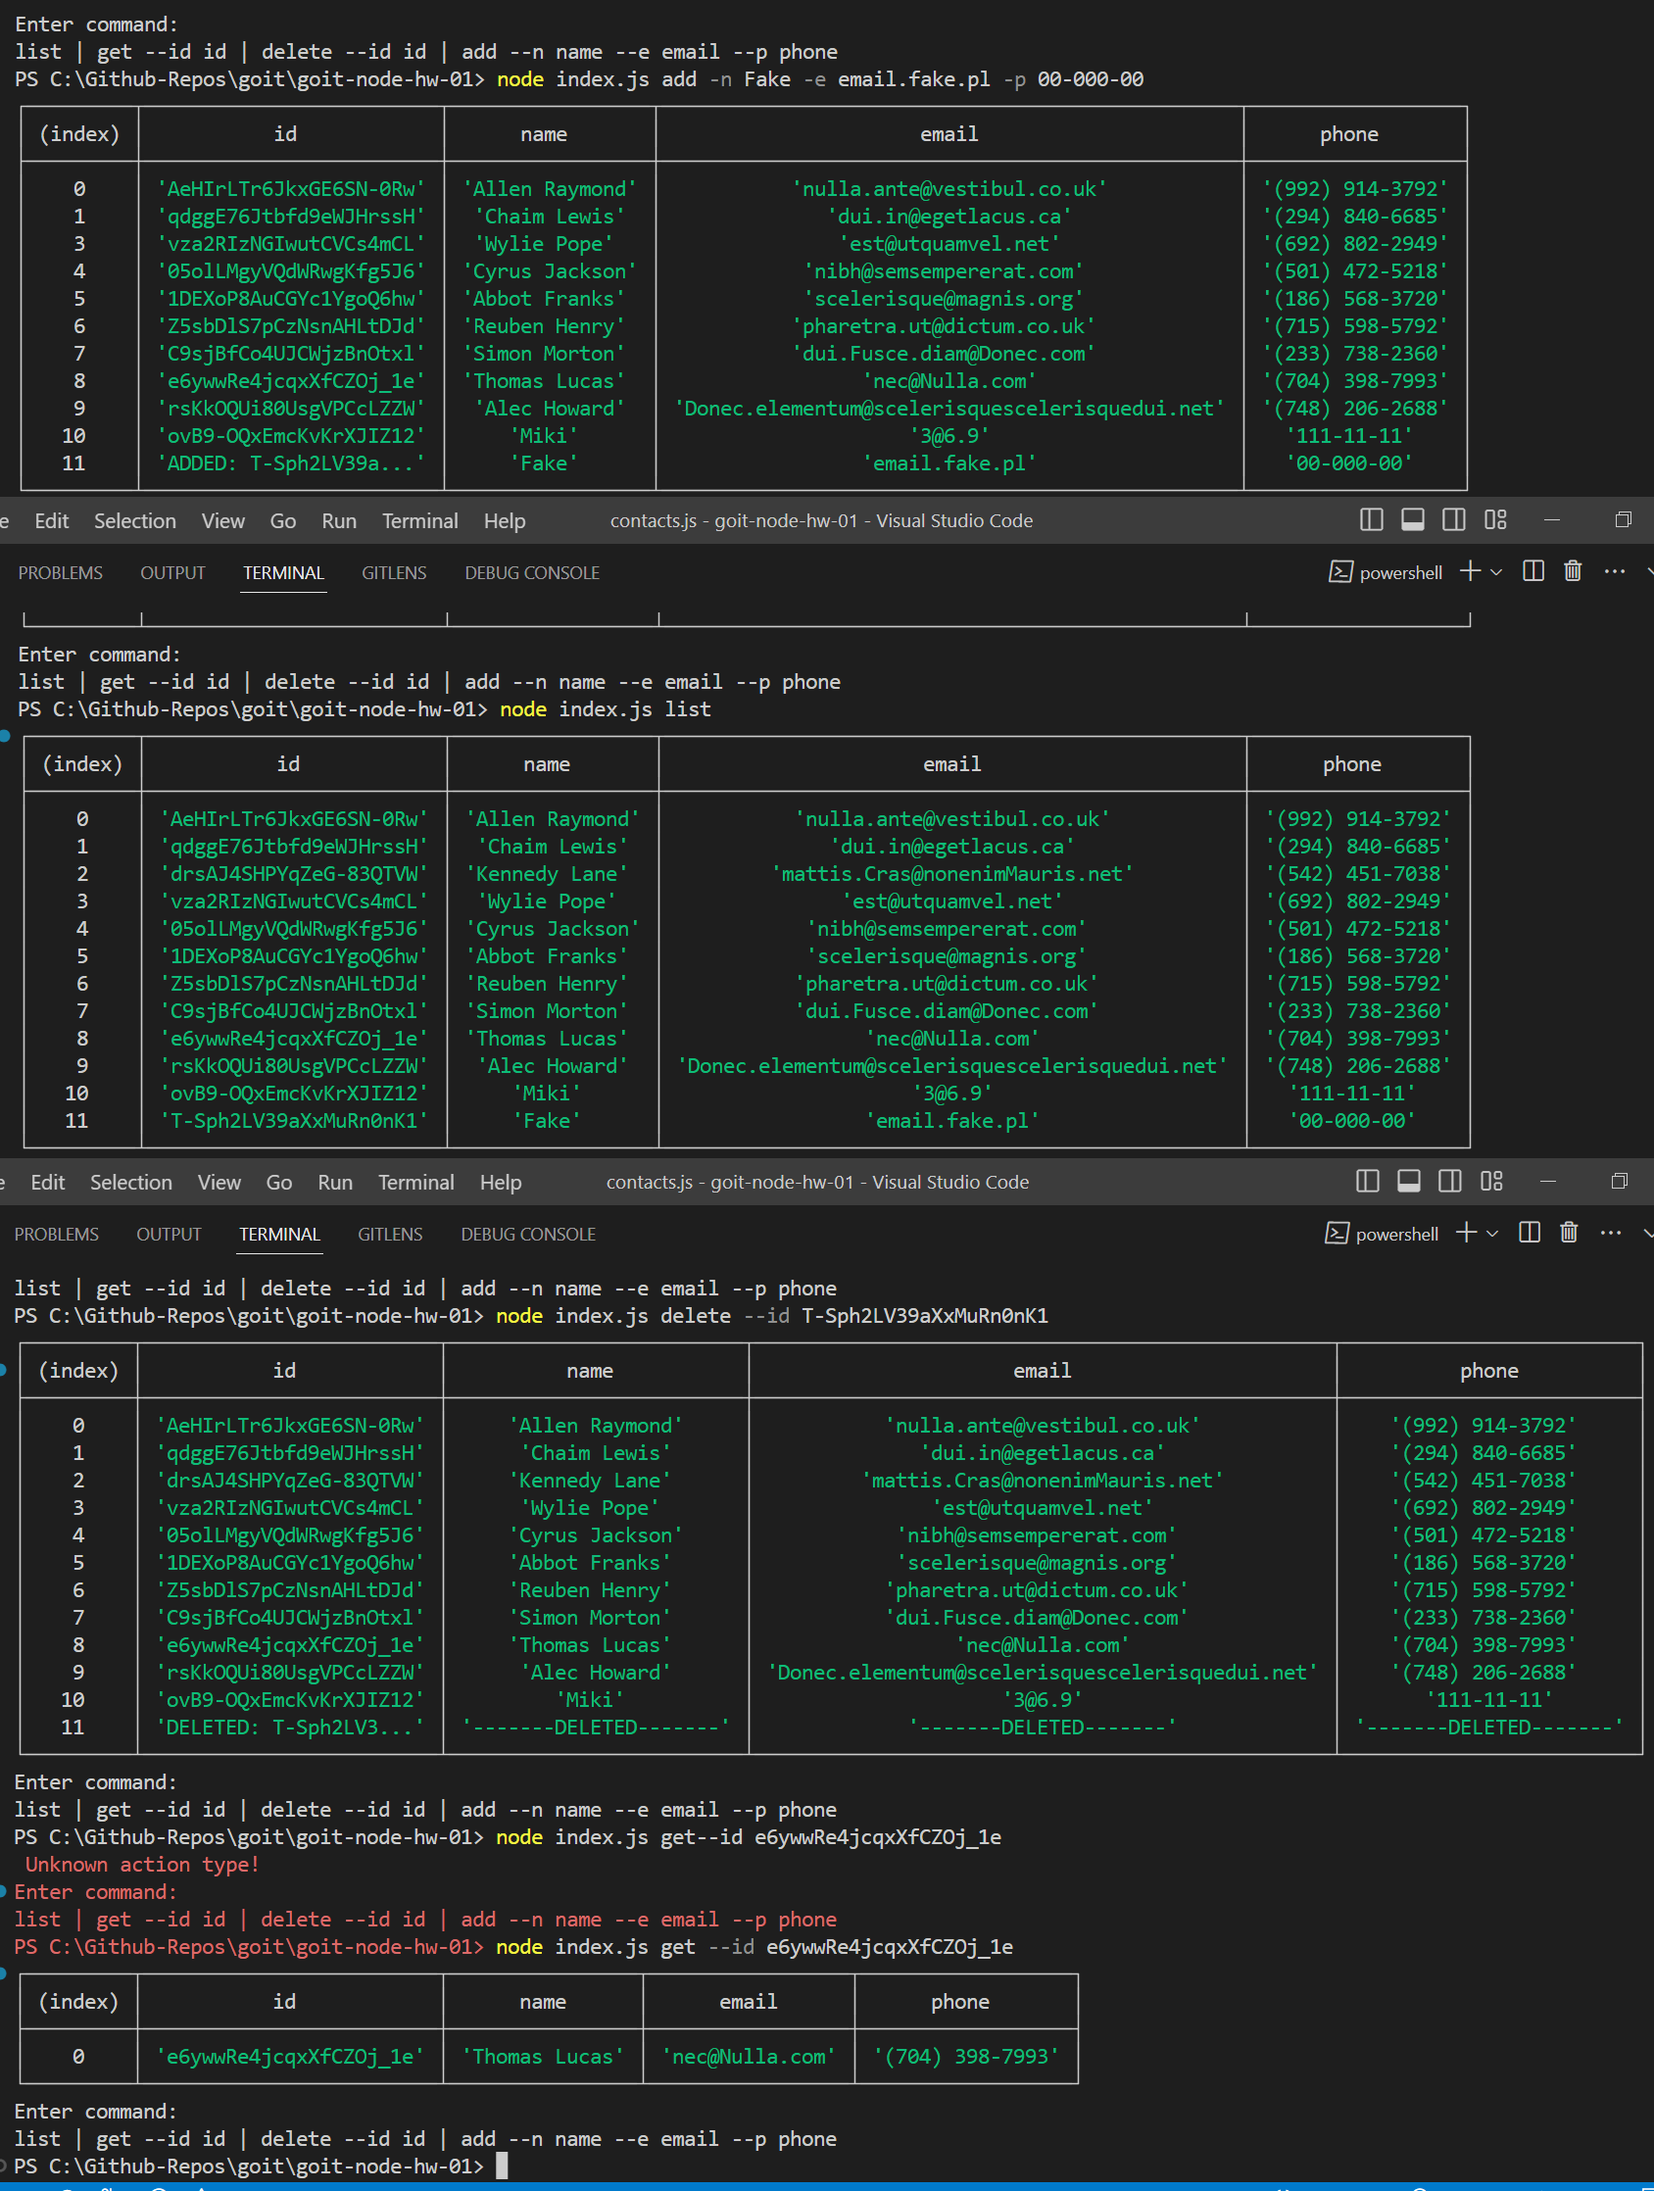
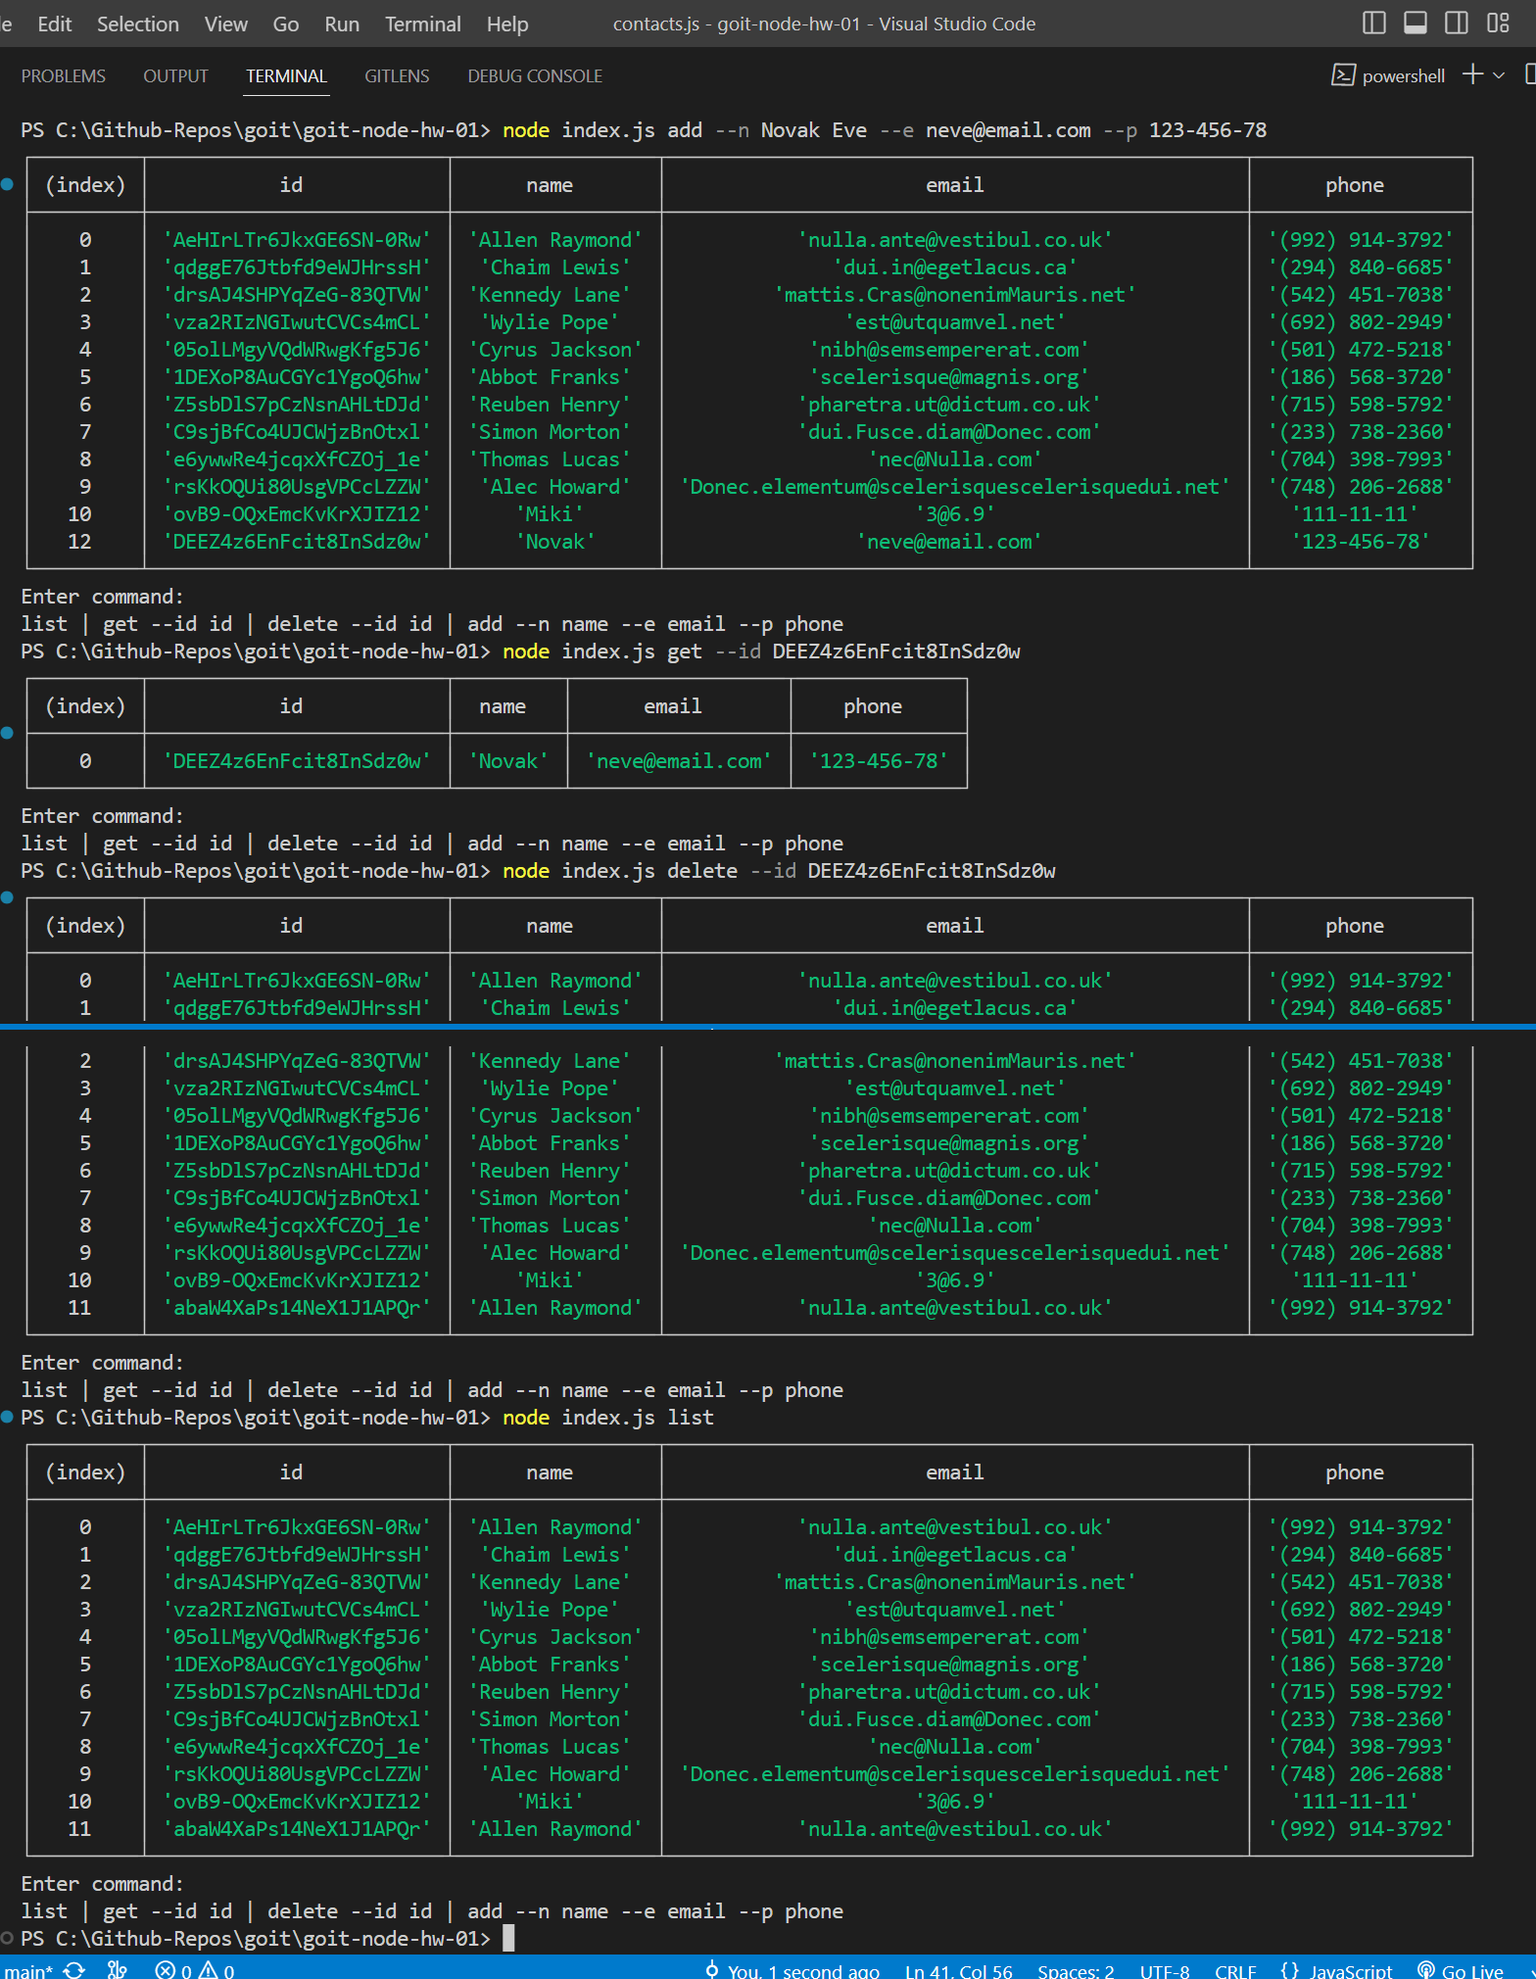
adjusted displayed text

Changed region(s): [[0.0, 0.0, 1.0, 1.0], [0.75, 0.2807, 0.7812, 0.3119], [0.7188, 0.8733, 0.75, 0.9045]]

diff --git a/contacts.js b/contacts.js
@@ -35,26 +35,22 @@ function getContactById(contactId) {
 }
 
 function removeContact(contactId) {
-  const deletedText = "-------DELETED-------";
-  const removedContact = {
-    id: `DELETED: ${contactId.substring(0, 9) + "..."}`,
-    name: deletedText,
-    email: deletedText,
-    phone: deletedText,
-  };
-
-  fs.writeFileSync(
-    contactsPath,
-    JSON.stringify(
-      data.filter((contact) => {
-        return contact.id !== contactId;
-      })
-    )
-  );
-  return data.map((contact) => {
-    if (contact.id === contactId) return removedContact;
-    return contact;
+  const newData = data.filter((contact) => {
+    return contact.id !== contactId;
   });
+  fs.writeFileSync(contactsPath, JSON.stringify(newData));
+  return newData;
+  // const deletedText = "-------DELETED-------";
+  // const removedContact = {
+  //   id: `DELETED: ${contactId.substring(0, 9) + "..."}`,
+  //   name: deletedText,
+  //   email: deletedText,
+  //   phone: deletedText,
+  // };
+  // return data.map((contact) => {
+  //   if (contact.id === contactId) return removedContact;
+  //   return contact;
+  // });
 }
 
 function addContact(
@@ -69,16 +65,17 @@ function addContact(
     email: email,
     phone: phone,
   };
-  const addedContact = {
-    ...contact,
-    id: `ADDED: ${contactId.substring(0, 11) + "..."}`,
-  };
   data.push(contact);
   fs.writeFileSync(contactsPath, JSON.stringify(data));
-  return data.map((contact) => {
-    if (contact.id === contactId) return addedContact;
-    return contact;
-  });
+  return data;
+  // const addedContact = {
+  //   ...contact,
+  //   id: `ADDED: ${contactId.substring(0, 11) + "..."}`,
+  // };
+  // return data.map((contact) => {
+  //   if (contact.id === contactId) return addedContact;
+  //   return contact;
+  // });
 }
 
 // log(SEPARATOR);

diff --git a/README.md b/README.md
@@ -5,7 +5,9 @@ introduction to node
 for script list type in terminal:
 npm run
 
-example: npm run start list
+<!-- example: npm run start list -->
+
+example: node index.js list
 
 # goit-node-hw-01 / solution
 
